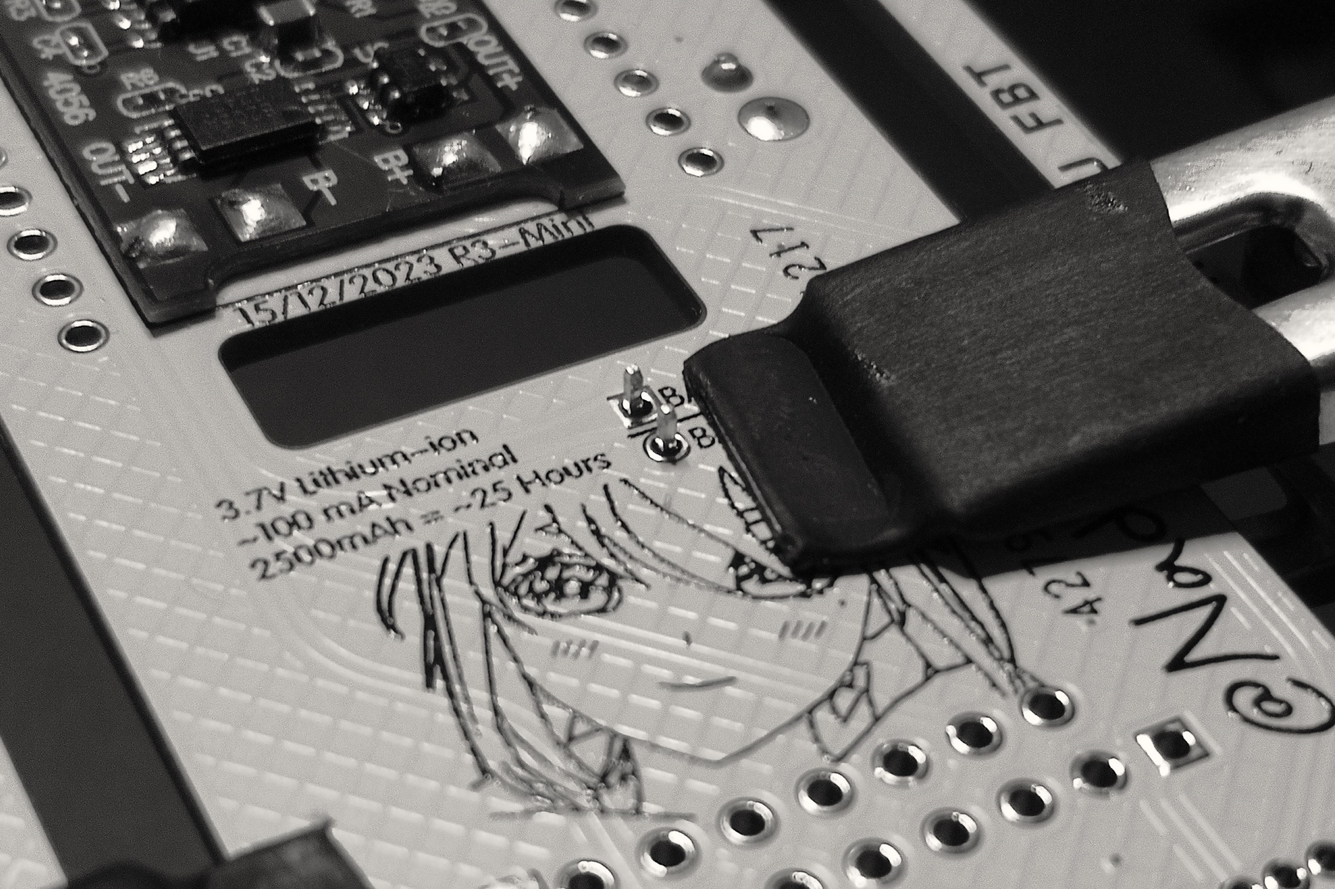
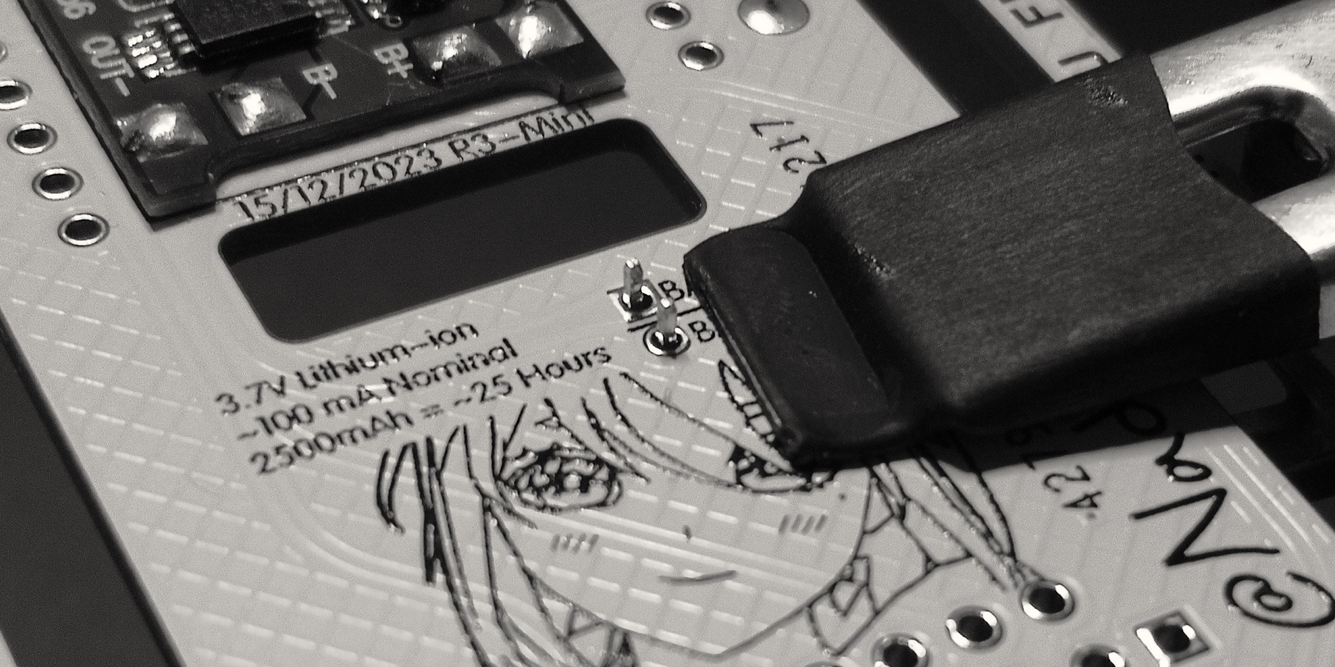
Assembly Guide
Simplified D1 Mini soldering.
Cropped images a bit.

diff --git a/README.md b/README.md
@@ -214,16 +214,13 @@ First bend the resistor and diodes like this to make it fit the breakout PCB.
  
 
 #### Step 2 -  Place the resistor and diodes on the PCB.
- 
 <img  src="https://github.com/Aeurias/NadeshikoSlimeVR/blob/main/Misc/Assembly/Step-2-ResDio-1/1.jpg"  alt="1"/>
  
 If they do not stay in place, secure them down with some tape:
 <img  src="https://github.com/Aeurias/NadeshikoSlimeVR/blob/main/Misc/Assembly/Step-2-ResDio-1/2.jpg"  alt="2"/>
  
-While they are nice and level with the PCB, solder them down:
-<img  src="https://github.com/Aeurias/NadeshikoSlimeVR/blob/main/Misc/Assembly/Step-2-ResDio-1/3.jpg"  alt="3"/>
- 
-If the solder does not go all the way through, you may add some on the top side too:
+While they are level with the PCB, solder them down:
+<img  src="https://github.com/Aeurias/NadeshikoSlimeVR/blob/main/Misc/Assembly/Step-2-ResDio-1/3.jpg"  alt="3"/>:
 <img  src="https://github.com/Aeurias/NadeshikoSlimeVR/blob/main/Misc/Assembly/Step-2-ResDio-1/4.jpg"  alt="4"/>
 
  
@@ -235,19 +232,18 @@ You can use these excess to make flush mounting the TP4056 easier if unexperienc
  
 
 #### Step 4 -  Next we solder on the TP4056 flush to the PCB on the backside.
- 
-If you are experienced with soldering, you can skip using the excess from the previous step; bend the excess over the TP4056 and the PCB holes so it stays in place and solder:
+<img  src="https://github.com/Aeurias/NadeshikoSlimeVR/blob/main/Misc/Assembly/Step-4-TP4056/00.jpg"  alt="00"/>
+
+If you are experienced with soldering, you can skip using the excess from the previous step; if not bend the excess over the TP4056 and the PCB holes so it stays in place and solder, this helps solder flow into the hole:
 <img  src="https://github.com/Aeurias/NadeshikoSlimeVR/blob/main/Misc/Assembly/Step-4-TP4056/1.jpg"  alt="1"/>
  
-Here's how the topside of the breakout PCB should look when using the pins for help:
+Here's how the topside of the breakout PCB should look when using the excess for help:
 <img  src="https://github.com/Aeurias/NadeshikoSlimeVR/blob/main/Misc/Assembly/Step-4-TP4056/2.jpg"  alt="2"/>
  
 Then do the same thing on all the other pads of the TP4056, 6 in total:
 <img  src="https://github.com/Aeurias/NadeshikoSlimeVR/blob/main/Misc/Assembly/Step-4-TP4056/3.jpg"  alt="3"/>
  
- 
 Clip off the excess from all 6 points so it's nice and neat:
- 
 <img  src="https://github.com/Aeurias/NadeshikoSlimeVR/blob/main/Misc/Assembly/Step-4-TP4056/5.jpg"  alt="5"/>
 <img  src="https://github.com/Aeurias/NadeshikoSlimeVR/blob/main/Misc/Assembly/Step-4-TP4056/6.jpg"  alt="6"/>
 
@@ -256,7 +252,6 @@ If you know how to flush solder and get good connection, then you can skip on us
 
  
 #### Step 5 -  We now add a JST 2-Pin for the battery connection.
- 
 <img  src="https://github.com/Aeurias/NadeshikoSlimeVR/blob/main/Misc/Assembly/Step-5-2Pin/1.jpg"  alt="1"/>
 
 First place it in the correct position and orientation as shown on the PCB:
@@ -304,14 +299,13 @@ Solder it in place just like the previous step:
 Begin by snapping the correct length of the header pins for the side with the holes on the PCB.
 <img  src="https://github.com/Aeurias/NadeshikoSlimeVR/blob/main/Misc/Assembly/Step-7-BMI-BNO/2.jpg"  alt="2"/>
 
-The repositioning of the plastic spacer can be easily done by hand on a flat surface, have them even like this:
+The repositioning of the plastic spacer can be easily done by hand on a flat surface, best to have them even like this for good battery clearance in the cases:
 <img  src="https://github.com/Aeurias/NadeshikoSlimeVR/blob/main/Misc/Assembly/Step-7-BMI-BNO/0.jpg"  alt="0"/>
  
-Place it on the PCB with the short side down, and long side upwards towards the IMU module, or adjust to even length bothsides to free up space for battery:
+Place it on the PCB:
 <img  src="https://github.com/Aeurias/NadeshikoSlimeVR/blob/main/Misc/Assembly/Step-7-BMI-BNO/3.jpg"  alt="3"/>
-<img  src="https://github.com/Aeurias/NadeshikoSlimeVR/blob/main/Misc/Assembly/Step-7-BMI-BNO/4mono.jpg"  alt="4"/>
  
-Secure it in place with a helper ensuring the header pin is level with the PCB and not crooked:
+Secure it in place with a helper ensuring the header pin is level with the PCB and not angled:
 <img  src="https://github.com/Aeurias/NadeshikoSlimeVR/blob/main/Misc/Assembly/Step-7-BMI-BNO/5mono.jpg"  alt="5"/>
 <img  src="https://github.com/Aeurias/NadeshikoSlimeVR/blob/main/Misc/Assembly/Step-7-BMI-BNO/6mono.jpg"  alt="6"/>
  
@@ -319,18 +313,17 @@ Solder the visible pins to secure it, and then finish soldering the rest that we
 <img  src="https://github.com/Aeurias/NadeshikoSlimeVR/blob/main/Misc/Assembly/Step-7-BMI-BNO/7.jpg"  alt="7"/>
 <img  src="https://github.com/Aeurias/NadeshikoSlimeVR/blob/main/Misc/Assembly/Step-7-BMI-BNO/8.jpg"  alt="8"/>
  
-Next we will solder the IMU module itself to the header pins
-For the module to be level, you can use the excess header pins as a guide to level the module with the PCB:
+Next we will solder the IMU module itself to the header pins. For the module to be level, you can use the excess header pins as a guide to level the module with the PCB:
 <img  src="https://github.com/Aeurias/NadeshikoSlimeVR/blob/main/Misc/Assembly/Step-7-BMI-BNO/9mono.jpg"  alt="9"/>
  
 You can also remove the pins easily from the excess header to get better and even leveling:
 <img  src="https://github.com/Aeurias/NadeshikoSlimeVR/blob/main/Misc/Assembly/Step-7-BMI-BNO/10mono.jpg"  alt="10"/>
  
-Secure the IMU module in place with a helper, ensuring the module is level:
+Then secure the module in place with a helper, ensuring it is level with the PCB:
 <img  src="https://github.com/Aeurias/NadeshikoSlimeVR/blob/main/Misc/Assembly/Step-7-BMI-BNO/11mono.jpg"  alt="11"/>
 <img  src="https://github.com/Aeurias/NadeshikoSlimeVR/blob/main/Misc/Assembly/Step-7-BMI-BNO/12mono.jpg"  alt="12"/>
  
-Solder the IMU module in place:
+Solder the IMU module to the header pins:
 <img  src="https://github.com/Aeurias/NadeshikoSlimeVR/blob/main/Misc/Assembly/Step-7-BMI-BNO/13.jpg"  alt="13"/>
 
 
@@ -339,19 +332,21 @@ Solder the IMU module in place:
 
 Again repositioning of the plastic spacer can be easily done by hand on a flat surface, have them even both sides like this to help battery clearance:
 <img  src="https://github.com/Aeurias/NadeshikoSlimeVR/blob/main/Misc/Assembly/Step-7-BMI-BNO/0.jpg"  alt="0"/>
- 
-Small pins into the PCB or adjust them to be even length both sides to free up more space for battery in case, and clamp it secure just like the IMU module:
-<img  src="https://github.com/Aeurias/NadeshikoSlimeVR/blob/main/Misc/Assembly/Step-8-D1Mini/2mono.jpg"  alt="2"/>
- 
-Solder the accessable pins first, then remove the clamp and do the rest:
-<img  src="https://github.com/Aeurias/NadeshikoSlimeVR/blob/main/Misc/Assembly/Step-8-D1Mini/3.jpg"  alt="3"/>
- 
-You may also tape down the header pins if you are unable to clamp them, make sure its flat and not angled:
-<img  src="https://github.com/Aeurias/NadeshikoSlimeVR/blob/main/Misc/Assembly/Step-8-D1Mini/4.jpg"  alt="4"/>
-<img  src="https://github.com/Aeurias/NadeshikoSlimeVR/blob/main/Misc/Assembly/Step-8-D1Mini/5.jpg"  alt="5"/>
 
-Mount the D1 Mini, clamp it secure and solder the pins, like the IMU module:
-<img  src="https://github.com/Aeurias/NadeshikoSlimeVR/blob/main/Misc/Assembly/Step-8-D1Mini/7.jpg"  alt="7"/>
+Place the header pins on the PCB and then the D1 Mini. Clamp down the D1 securing the header pins:
+<img  src="https://github.com/Aeurias/NadeshikoSlimeVR/blob/main/Misc/Assembly/Step-8-D1Mini/2.jpg"  alt="2"/>
+
+Flip to the backside as this will be soldered first:
+<img  src="https://github.com/Aeurias/NadeshikoSlimeVR/blob/main/Misc/Assembly/Step-8-D1Mini/3.jpg"  alt="3"/>
+
+Solder the D1 Mini header pins on the backside of the PCB:
+<img  src="https://github.com/Aeurias/NadeshikoSlimeVR/blob/main/Misc/Assembly/Step-8-D1Mini/4.jpg"  alt="4"/>
+
+Finish step by soldering the D1 Mini to the header pins, making sure not to overheat the header pin's black plastic:
+<img  src="https://github.com/Aeurias/NadeshikoSlimeVR/blob/main/Misc/Assembly/Step-8-D1Mini/5.jpg"  alt="5"/>
+ 
+
+
 
 #### Step 9 -  Clean the board to remove flux, use PCB cleaner or 99% isopropyl alcohol
 <img  src="https://github.com/Aeurias/NadeshikoSlimeVR/blob/main/Misc/Assembly/Step-9-Cleaned/1.jpg"  alt="1"/>
@@ -369,7 +364,7 @@ Depending on the IMU module used, you may need to ground some pads if using an e
 <img  src="https://github.com/Aeurias/NadeshikoSlimeVR/blob/main/Misc/Assembly/Step-11-Firmware/onlinefirmware.png"  alt="2"/>
 
  
-After firmware flashing is complete, you can then place into the 3D printed cases.
+After firmware flashing is complete, you can tape the battery to the PCB and/or place into the 3D printed cases.
 <img  src="https://github.com/Aeurias/NadeshikoSlimeVR/blob/main/Misc/cases8111X.jpg"  alt="cases"/>
 
 <br>
